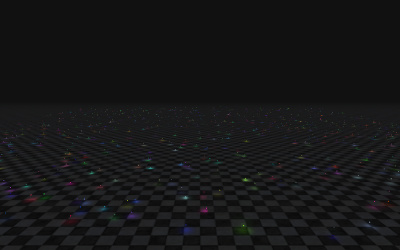
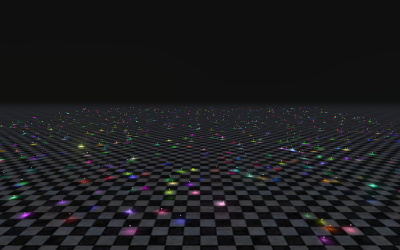
update

diff --git a/examples/webgpu_lights_selective.html b/examples/webgpu_lights_selective.html
@@ -25,7 +25,7 @@
 		<script type="module">
 
 			import * as THREE from 'three';
-			import { texture, uv, pass, userData, uniform } from 'three/tsl';
+			import { texture, uv, pass, uniform } from 'three/tsl';
 			import { bloom } from 'three/addons/tsl/display/BloomNode.js';
 
 			import { TiledLighting } from 'three/addons/lighting/TiledLighting.js';
@@ -36,14 +36,24 @@
 
 			import { OrbitControls } from 'three/addons/controls/OrbitControls.js';
 
+			import WebGPU from 'three/addons/capabilities/WebGPU.js';
+
 			let camera, scene, renderer,
-				lights,
+				lights, lightDummy,
 				stats, controls,
 				postProcessing;
 
 			init();
 
 			function init() {
+
+				if ( WebGPU.isAvailable() === false ) {
+
+					document.body.appendChild( WebGPU.getErrorMessage() );
+
+					throw new Error( 'No WebGPU support' );
+
+				}
 
 				camera = new THREE.PerspectiveCamera( 50, window.innerWidth / window.innerHeight, 0.1, 600 );
 				camera.position.z = 200;
@@ -53,10 +63,13 @@
 				scene.fog = new THREE.Fog( 0x111111, 300, 500 );
 				scene.background = new THREE.Color( 0x111111 );
 
-				const sphereGeometry = new THREE.SphereGeometry( 0.1, 16, 8 );
+				const count = 1000;
 
-				const material = new THREE.NodeMaterial();
-				material.colorNode = userData( 'lightColor', 'color' );
+				const material = new THREE.MeshBasicMaterial();
+
+				lightDummy = new THREE.InstancedMesh( new THREE.SphereGeometry( 0.1, 16, 8 ), material, count );
+				lightDummy.instanceMatrix.setUsage( THREE.DynamicDrawUsage );
+				scene.add( lightDummy );
 
 				// lights
 
@@ -65,24 +78,25 @@
 
 				const addLight = ( hexColor, power = 10000, distance = 3 ) => {
 
-					const mesh = new THREE.Mesh( sphereGeometry, material );
-					mesh.userData.lightColor = new THREE.Color( hexColor );
-
 					const light = new THREE.PointLight( hexColor, 1, distance );
 					light.position.set( Math.random() * 300 - 150, 1, Math.random() * 300 - 150 );
 					light.power = power;
 					light.userData.fixedPosition = light.position.clone();
-					light.add( mesh );
-
 					lights.add( light );
 
 					return light;
 
 				};
 
-				for ( let i = 0; i < 1000; i ++ ) {
+				const color = new THREE.Color();
 
-					addLight( ( Math.random() * 0xffffff ) + 0x666666 );
+				for ( let i = 0; i < count; i ++ ) {
+
+					const hex = ( Math.random() * 0xffffff ) + 0x666666;
+
+					lightDummy.setColorAt( i, color.setHex( hex ) );
+
+					addLight( hex );
 
 				}
 
@@ -121,13 +135,13 @@
 
 				const lighting = new TiledLighting(); // TiledLighting( maxLights = 1024, tileSize = 16 )
 
-				renderer = new THREE.WebGPURenderer( { antialias: true, forceWebGL: false } );
+				renderer = new THREE.WebGPURenderer( { antialias: true } );
 				renderer.setPixelRatio( window.devicePixelRatio );
 				renderer.setSize( window.innerWidth, window.innerHeight );
 				renderer.setAnimationLoop( animate );
 				renderer.toneMapping = THREE.NeutralToneMapping;
 				renderer.toneMappingExposure = 5;
-				renderer.lighting = lighting;
+				renderer.lighting = lighting; // set lighting
 				document.body.appendChild( renderer.domElement );
 
 				// controls
@@ -173,14 +187,17 @@
 
 				const time = performance.now() / 1000;
 
-				for ( const light of lights.children ) {
+				for ( let i = 0; i < lights.children.length; i ++ ) {
 
+					const light = lights.children[ i ];
 					const lightTime = ( time * 0.5 ) + light.id;
 
 					light.position.copy( light.userData.fixedPosition );
 					light.position.x += Math.sin( lightTime * 0.7 ) * 3;
 					light.position.y += Math.cos( lightTime * 0.5 ) * .5;
 					light.position.z += Math.cos( lightTime * 0.3 ) * 3;
+
+					lightDummy.setMatrixAt( i, light.matrixWorld );
 
 				}
 
